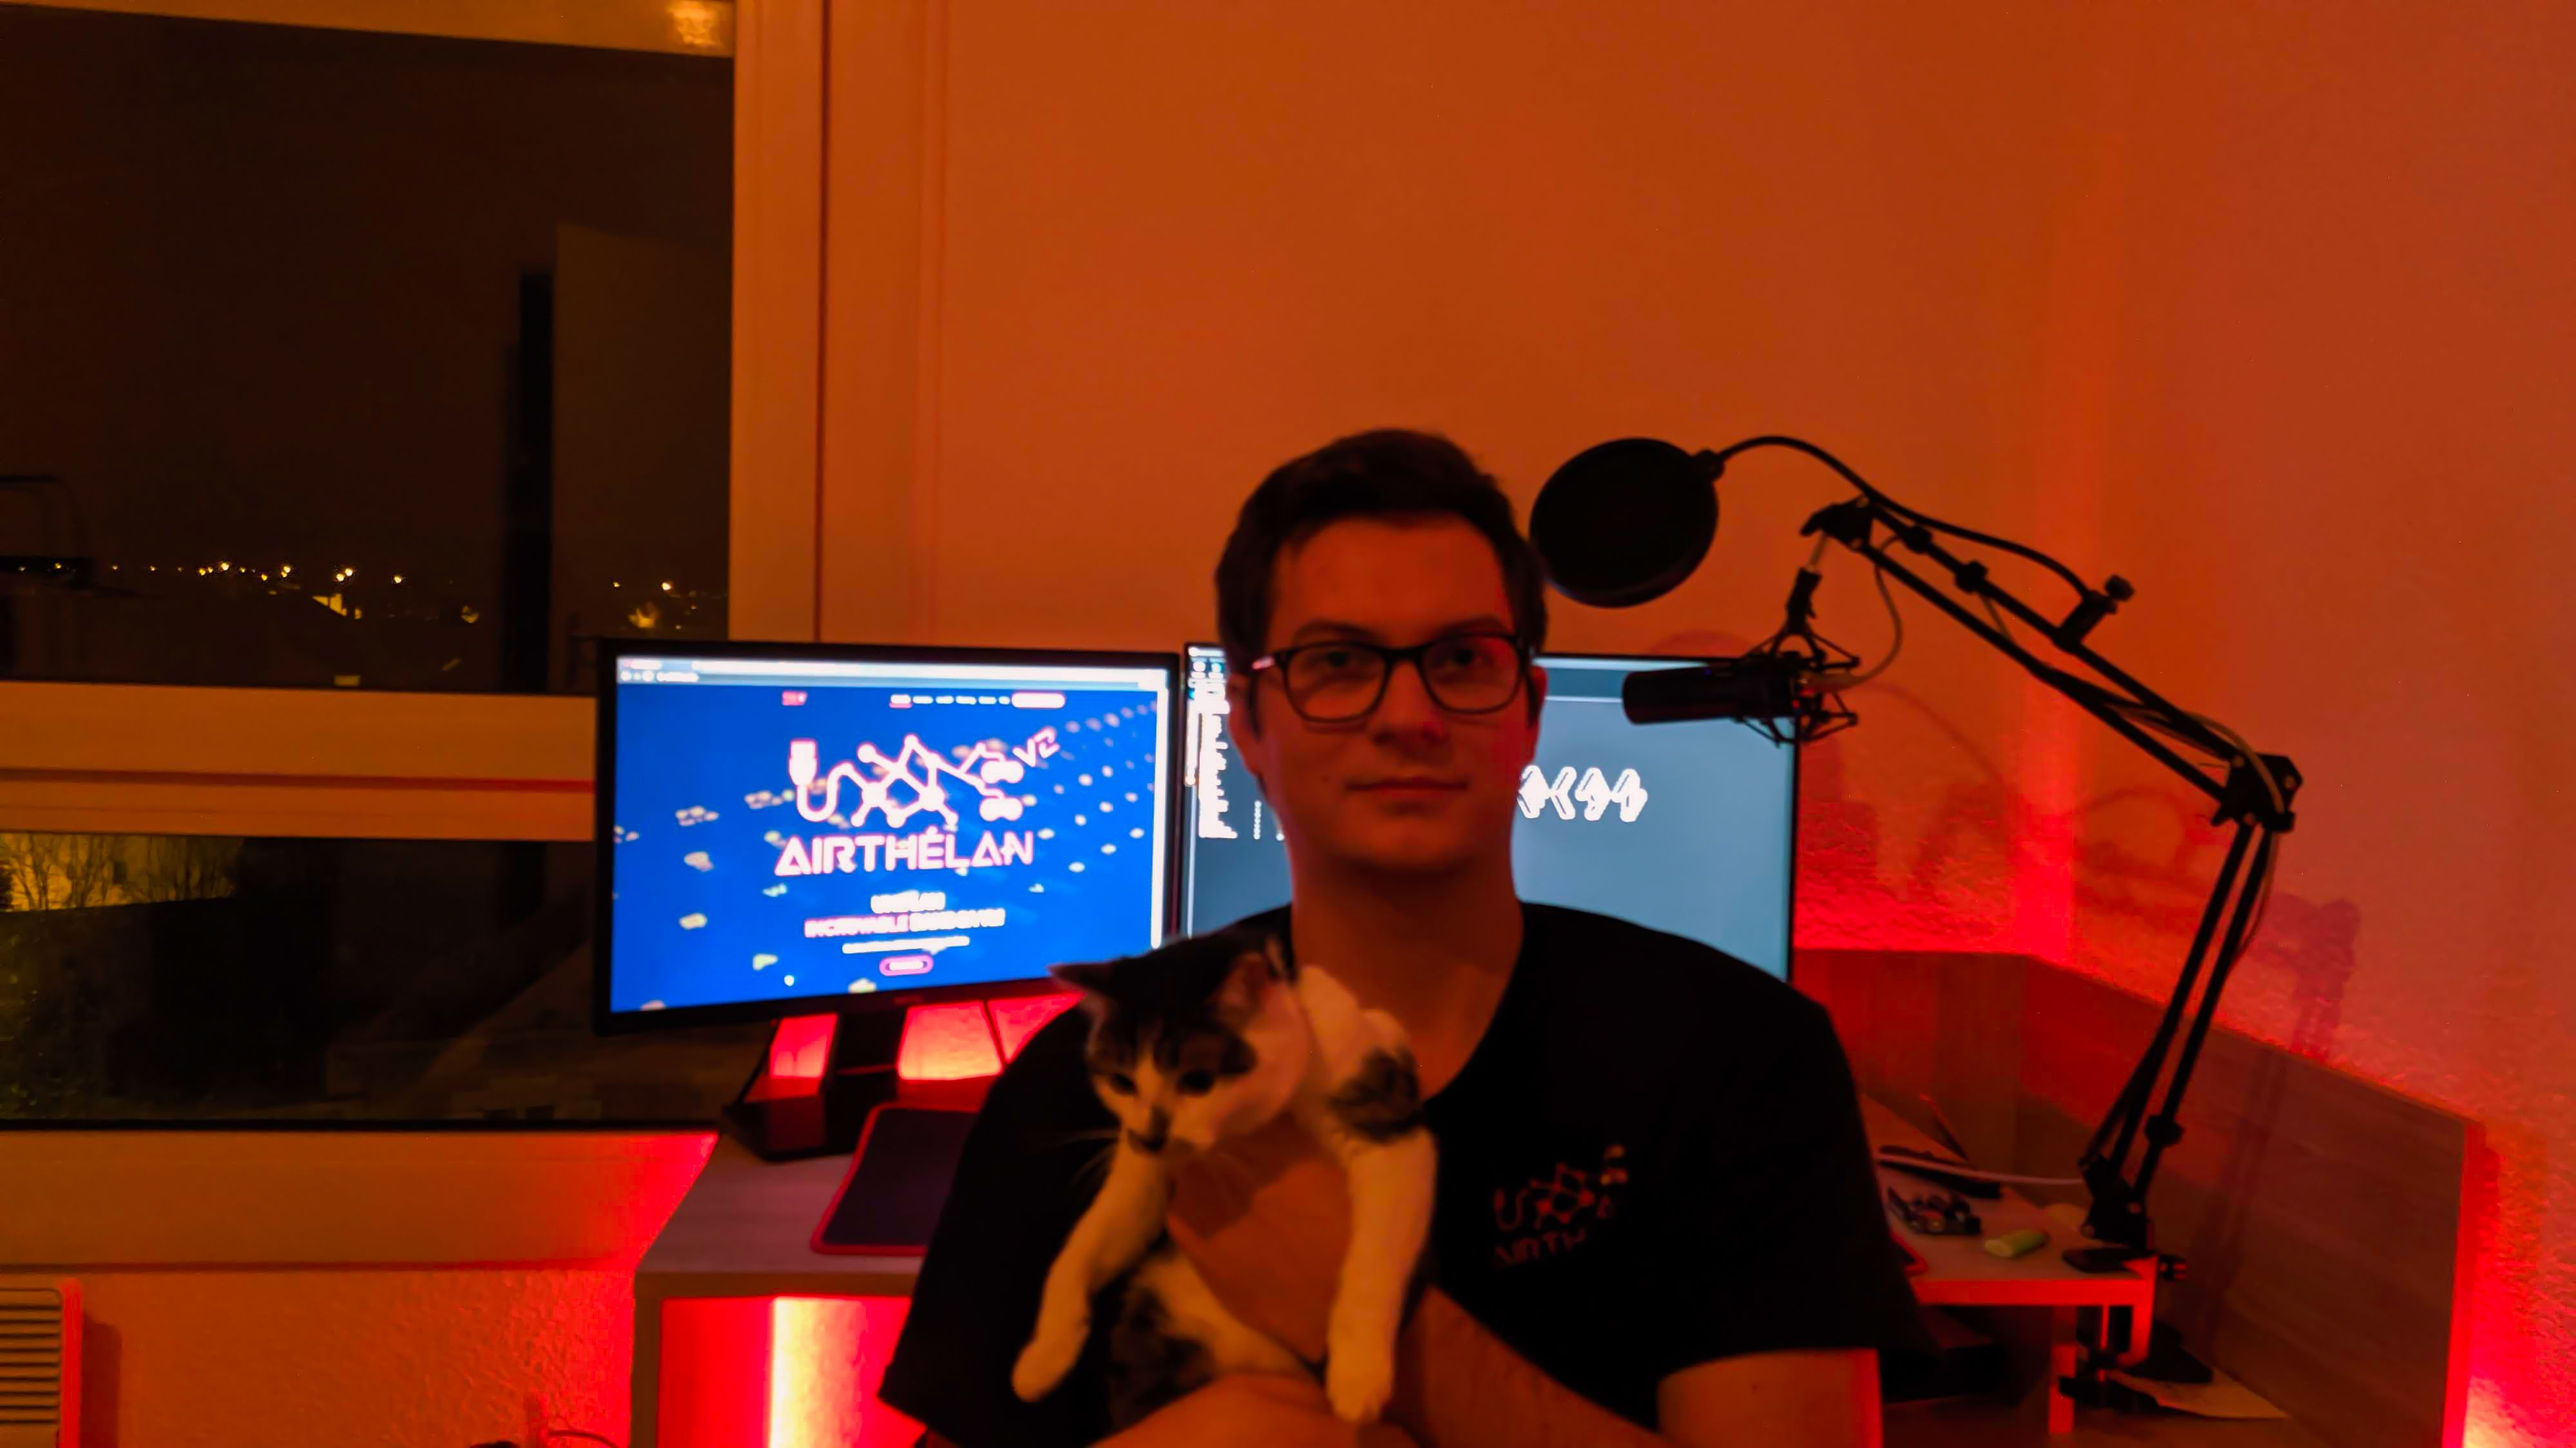
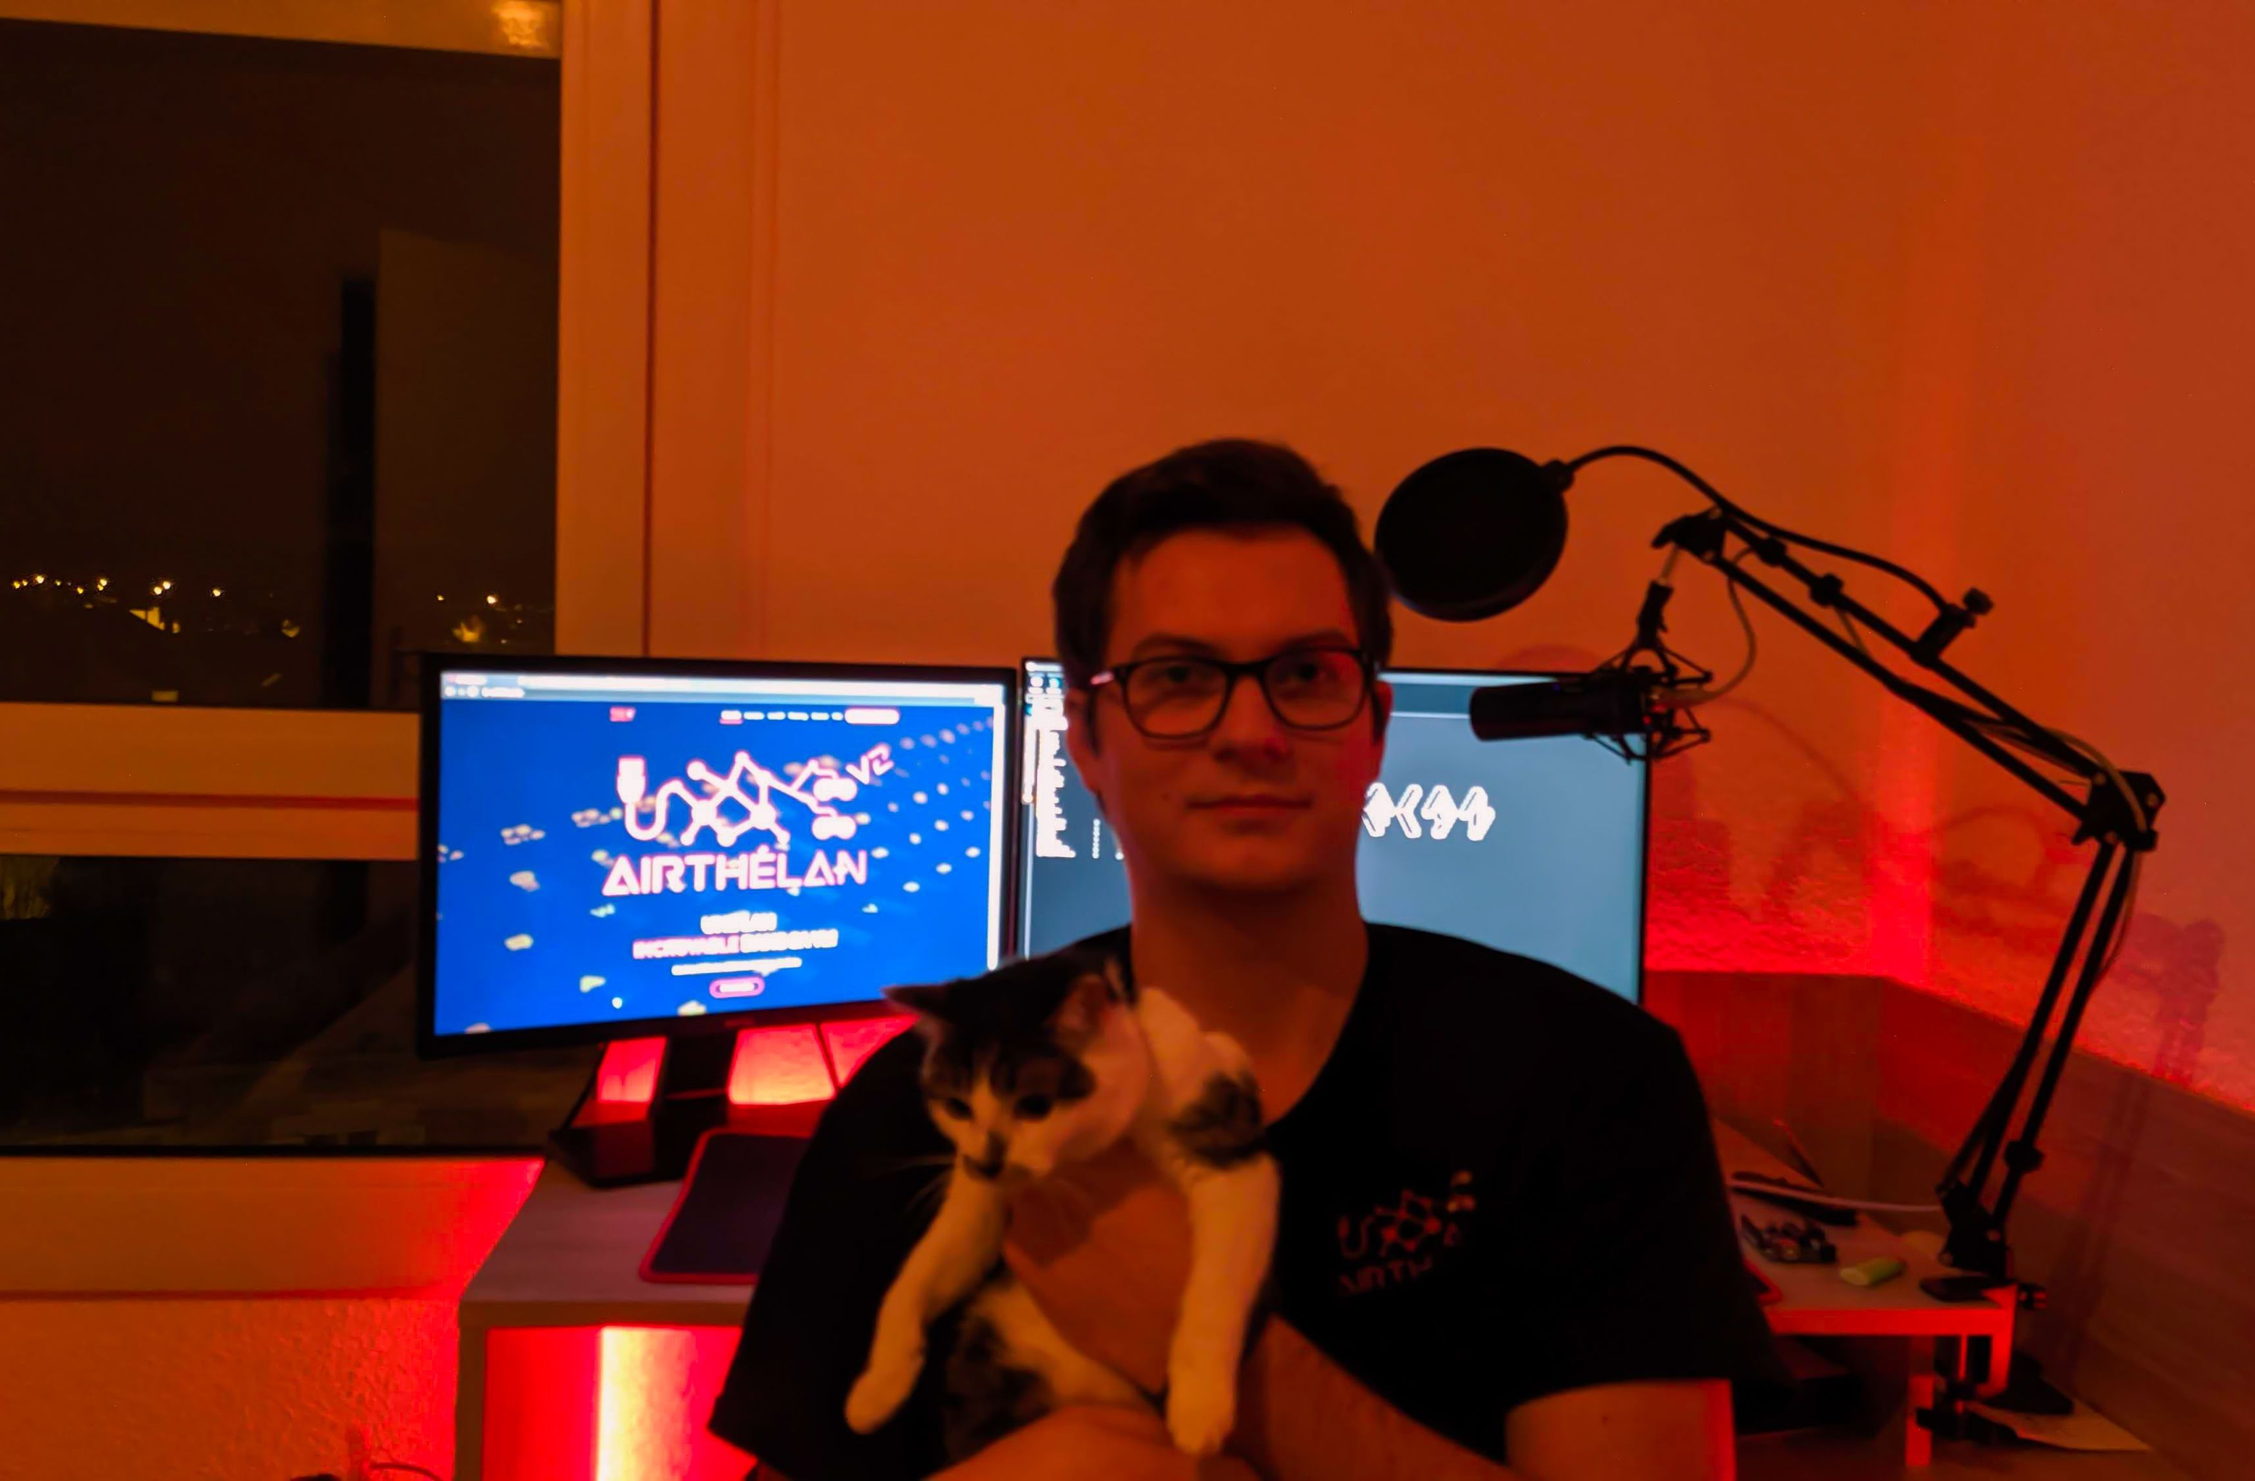
-Adaptation AirThéLAN v3 -Amélioration referencement -Ajout Loire Esports -Crop des photos staff pour qu'elles soit au même format -Amélioration readme.md

diff --git a/index.html b/index.html
@@ -90,7 +90,7 @@
             <h2>A propos de la LAN</h2>
             <p>
               La AirThéLAN, c'est une LAN Party faite par des passionnés, pour des passionnés.<br>
-              Nous avons pu réunir 40 joueurs lors de sa deuxième édition les 8 et 9 février 2020.<br>
+              Nous avons pu réunir plus de 45 joueurs lors de sa deuxième édition les 8 et 9 février 2020.<br>
             <p>
               C'est avant tout un projet associatif, organisé par l'Association Loire Esports.
               <br>L'association regroupe passionnés, joueurs et étudiants du milieu des réseaux & télécommunications!
@@ -335,7 +335,7 @@
               <div class="details staff">
                 <h3><a href="">Pierre SARRET</a></h3>
                   <h6>DrumSlayer<br>AKA "L'homme à tout faire de la situation"</h6>
-                <p>Admin réseau, matériel et animation</p>
+                <p>Admin réseau, matériel et animation. Président de l'Association Loire Esports</p>
               </div>
             </div>
           </div>
@@ -345,7 +345,7 @@
               <div class="details staff">
                 <h3><a href="">Valentin GUILLOIZEAU</a></h3>
                   <h6>Avelinnt<br>AKA "Super-Raspberry Pi"</h6>
-                <p>Admin joueurs & jeux, animation</p>
+                <p>Admin joueurs & jeux, animation. Vice-Président de Loire Esports</p>
               </div>
             </div>
           </div>
@@ -355,7 +355,7 @@
               <div class="details staff">
                 <h3><a href="">Alexandre HELETA</a></h3>
                   <h6>Skeudy<br>AKA "J'suis Master Elite"</h6>
-                <p>Admin CS:GO</p>
+                <p>Admin CS:GO. Trésorier de Loire Esports</p>
               </div>
             </div>
           </div>
@@ -371,11 +371,11 @@
           </div>
           <div class="col-lg-4 col-md-6">
             <div class="speaker">
-              <img src="img/speakers/photo_lucas_lambin-compressor.jpg" alt="Lucas 'Gemöx' LAMBIN" class="img-fluid img-staff" width='100%'>
-              <div class="details staff">
-                <h3><a href="">Lucas LAMBIN</a></h3>
-                  <h6>Gemöx</h6>
-                <p>Admin du tournoi League of Legends de la nocturne</p>
+              <img src="img/speakers/men 5.svg" alt="Speaker 6" class="img-fluid img-staff" width='75%'>
+              <div class="detail staff">
+                <h3><a href="">Théo FOURRE</a></h3>
+                  <h6>Shantoria<br>AKA "Le Barman"</h6>
+                <p>Gérant Logistique & Cafétéria. Secrétaire de Loire Esports</p>
               </div>
             </div>
           </div>
@@ -385,17 +385,17 @@
               <div class="details staff">
                 <h3><a href="">Guillian DUCLOS</a></h3>
                   <h6>ExoBilling</h6>
-                <p>HelpDesk</p>
+                <p>HelpDesk / Homme s'adaptant à la situation</p>
               </div>
             </div>
           </div>
           <div class="col-lg-4 col-md-6">
             <div class="speaker">
-              <img src="img/speakers/men 5.svg" alt="Speaker 6" class="img-fluid img-staff" width='75%'>
-              <div class="detail staff">
-                <h3><a href="">Théo FOURRE</a></h3>
-                  <h6>Shantoria</h6>
-                <p>Gérant de la Cafétéria sur place / Le Barman</p>
+              <img src="img/speakers/photo_lucas_lambin-compressor.jpg" alt="Lucas 'Gemöx' LAMBIN" class="img-fluid img-staff" width='100%'>
+              <div class="details staff">
+                <h3><a href="">Lucas LAMBIN</a></h3>
+                  <h6>Gemöx</h6>
+                <p>Admin League of Legends</p>
               </div>
             </div>
           </div>
@@ -416,6 +416,7 @@
         </div>
 
         <div class="row justify-content-center">
+          <b style="color: red">DISCLAIMER!</b> : La FAQ concerne la v2. Elle n'est plus à jour!
           <div class="col-lg-9">
               <ul id="faq-list">
                   
@@ -614,15 +615,15 @@ Pas de soucis, on s’occupe de tout même du fait que les équipes soit le plus
 
     </section>
      <!--==========================
-      Spnsors
-    ============================-->
+      Sponsors
+    ============================ -->
     <section id="sponsors" class="wow fadeInUp" style="padding-top: 30px">
       <div class="container" style="height: 100%">
         <div class="section-header">
           <h2>Nos sponsors</h2>
           <p>Ils nous font confiance (et c'est vraiment gentil)</p>
         </div>
-
+        
         <div class="row">
           <div class="col-lg">
             <div class="sponsors">
@@ -651,6 +652,7 @@ Pas de soucis, on s’occupe de tout même du fait que les équipes soit le plus
           </div>
         </div>
       </div>
+    
 
     </section>
     <!--==========================
@@ -721,7 +723,7 @@ Pas de soucis, on s’occupe de tout même du fait que les équipes soit le plus
         <div class="row">
 
           <div class="col-lg-3 col-md-6 footer-info">
-            <img src="img/loire_esports_vect.svg" alt="Loire Esports" width=40%>
+            <!--<img src="img/loire_esports_vect.svg" alt="Loire eSports" width=40%>-->
           </div>
 
           <div class="col-lg-3 col-md-6 footer-contact">
@@ -732,7 +734,7 @@ Pas de soucis, on s’occupe de tout même du fait que les équipes soit le plus
             </p>
 
             <div class="social-links">
-              <a href="https://twitter.com/LoireEsports" class="twitter"><i class="fa fa-twitter"></i></a>
+              <a href="https://twitter.com/LoireeEsports" class="twitter"><i class="fa fa-twitter"></i></a>
               <a href="https://www.facebook.com/LoireEsports" class="facebook"><i class="fa fa-facebook"></i></a>
               <a href="https://www.instagram.com/LoireEsports" class="instagram"><i class="fa fa-instagram"></i></a>
             </div>

diff --git a/css/airthelan.css b/css/airthelan.css
@@ -202,7 +202,7 @@ h6 {
 --------------------------------*/
 
 .section-header {
-  margin-bottom: 50px;
+  margin-bottom: 25px;
   position: relative;
   padding-bottom: 20px;
 }

diff --git a/README.md b/README.md
@@ -1,10 +1,11 @@
 [![Logo Airthelan](https://i.imgur.com/xnyLrWc.png)](https://airthelan.party)
 
-[![Discord](https://img.shields.io/discord/122900397965705216.svg?style=flat-square&label=Discord)](https://discord.gg/ZvNpepk)
-
+[![AirThéLAN](https://img.shields.io/badge/AirTh%C3%A9LAN%20c'est-cool-green&style=for-the-badge)](https://discord.gg/ZvNpepk)
+[![Discord](https://img.shields.io/discord/546369790990614533?color=e71f3c&label=Discord%20AirTh%C3%A9LAN&logo=discord&style=for-the-badge)](https://discord.gg/ZvNpepk)
+![GitHub last commit](https://img.shields.io/github/last-commit/DrumSlayers/drumslayers.github.io?logo=github&style=for-the-badge)
 # Site Web AirThéLAN.party
 
 C'est juste le site web de notre super LAN,
 Vient sur le discord si tu veux causer :p
 
-Copyright (c) 2019 Pierre SARRET <drumslayer@drumslayer.ovh>.
+Copyright (c) 2020 Pierre SARRET <drumslayer@drumslayer.ovh>.
